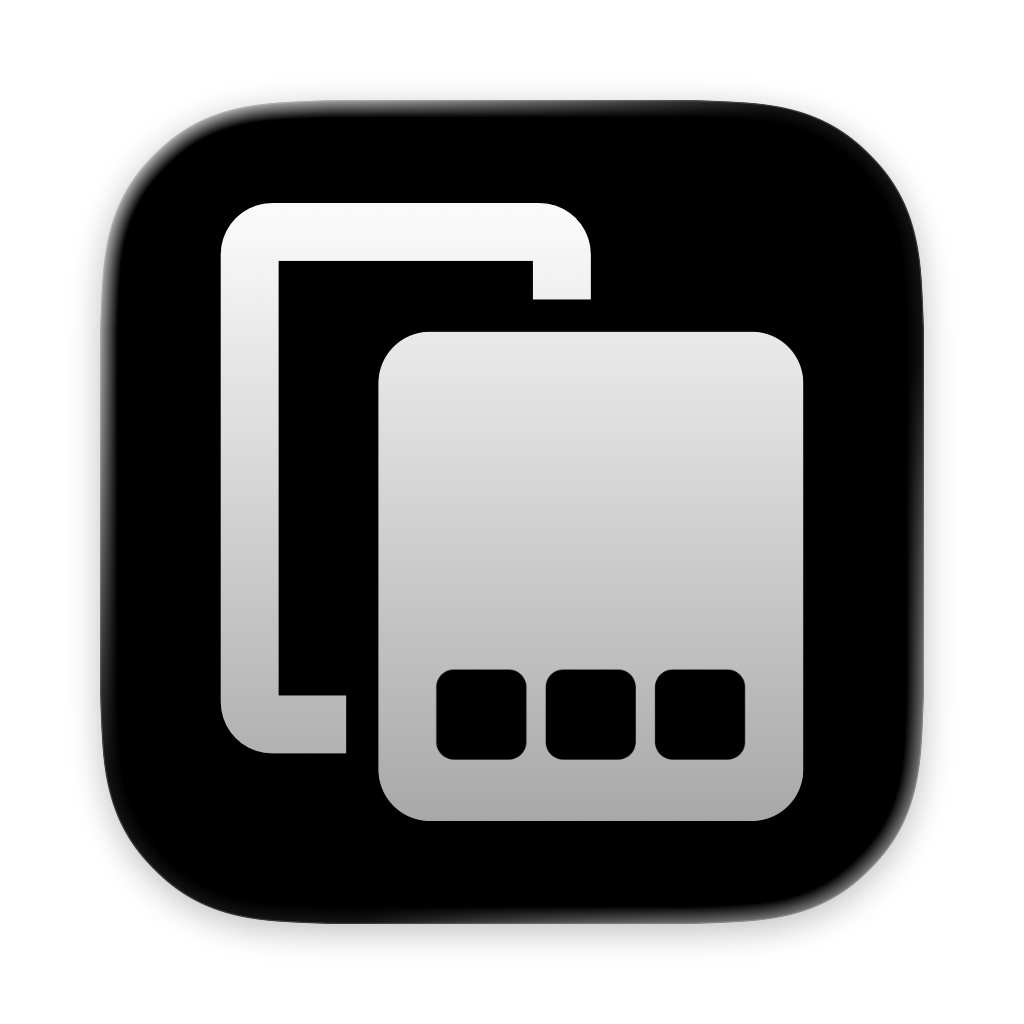
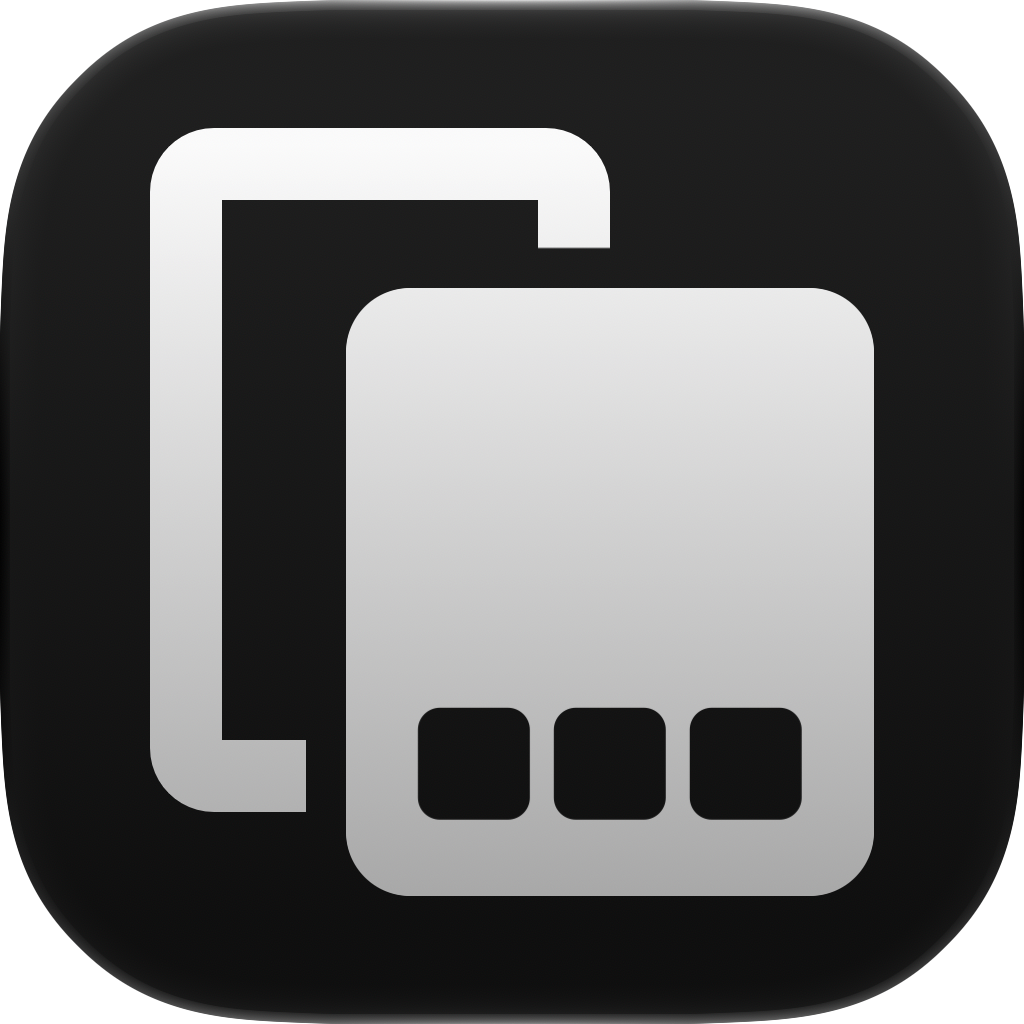
feat(clippu): in-app scenes, single-column app cards, new now section
Mail, Messages, Notes and Safari scenes from brand-assets-kit; Command Shift V order; full-bleed Clippu icon.

diff --git a/assets/css/12-cards.css b/assets/css/12-cards.css
@@ -1,7 +1,7 @@
 @layer components {
   .cards {
     display: grid;
-    grid-template-columns: repeat(auto-fit, minmax(min(100%, 18rem), 1fr));
+    grid-template-columns: 1fr;
     gap: var(--space-m);
     padding: 0;
     list-style: none;

diff --git a/content/apps/clippu/_index.md b/content/apps/clippu/_index.md
@@ -9,7 +9,7 @@ description = "Clippu keeps the text, links, images and files you copy, and past
 keywords = ["macOS", "clipboard", "clipboard manager", "clipboard history", "paste", "productivity", "swift"]
 icon = "images/icon_1024x1024.png"
 hero = "images/website-hero_2400x1350.webp"
-heroAlt = "The Clippu clipboard bar along the bottom of the screen, with text, colour, code, image and file cards"
+heroAlt = "Writing an email in Mail with the Clippu bar open below it and a link card ready to paste"
 requirement = "In development. Requires macOS 26 or later"
 links = [
   { name = "Coming soon" },
@@ -28,10 +28,10 @@ Press the shortcut and your history opens along the bottom of the screen.
 
 Find an item, press Return, and Clippu pastes it into the app you were using.
 '''
-label = "Keyboard shortcut: Shift Command V"
+label = "Keyboard shortcut: Command Shift V"
 keys = [
-  { glyph = "⇧", name = "shift" },
   { glyph = "⌘", name = "command" },
+  { glyph = "⇧", name = "shift" },
   { glyph = "V" },
 ]
 
@@ -44,17 +44,19 @@ body = """
 - **Images** show a preview.
 - **Files and folders** show their Finder icon and name.
 - **Links** show the title the app copied with them. Clippu never loads the page.
+
+Image, file and code cards show their file type or language in the corner.
 """
 
-image = "images/website-kinds_1440x1080.webp"
-alt = "A colour swatch, highlighted code and an image, each on its own card"
+image = "images/website-paste-messages_1440x1080.webp"
+alt = "A Messages conversation with the Clippu bar open and a photo card ready to paste"
 [[features]]
 title = "Search Everything"
 summary = "Start typing to search every item, including the text inside images."
 body = "Text in images is recognised on your Mac, so a screenshot of an error message turns up when you search for it."
 
-image = "images/website-search_1440x1080.webp"
-alt = "A search for report finding a PDF, an email snippet and a folder"
+image = "images/website-paste-browser_1440x1080.webp"
+alt = "A support form in Safari with the order number field selected and a search for order in the Clippu bar"
 [[features]]
 title = "Search Scopes"
 summary = "Narrow the search to one kind, one file type or one app."
@@ -76,12 +78,14 @@ summary = "Pick several cards and paste them in the order you picked them."
 body = """
 - [[⇧ ←]] [[⇧ →]] select a range
 - [[space]] add or remove any card
-- [[↩]] paste
-- [[⇧ ↩]] paste as plain text
+- [[↩]] paste them all
+- [[⇧ ↩]] paste them all as plain text
+
+Each selected card shows its number, so you see the order before you paste.
 """
 
-image = "images/website-paste-in-order_1440x1080.webp"
-alt = "Three selected cards with the paste as plain text hint under each"
+image = "images/website-paste-notes_1440x1080.webp"
+alt = "A note in Notes with three cards selected in the Clippu bar, numbered in the order they will paste"
 [[features]]
 title = "Undo Any Change"
 summary = "Delete, edit, rename, move or clear, then press [[⌘ Z]] to take it back."
@@ -105,7 +109,7 @@ summary = "Paste an item, delete an item or clear your history from your own sho
 [[shortcuts]]
 group = "Anywhere"
 keys = [
-  { keys = "⇧ ⌘ V", action = "Open the clipboard bar. Change it in Settings." },
+  { keys = "⌘ ⇧ V", action = "Open the clipboard bar. Change it in Settings." },
 ]
 
 [[shortcuts]]
@@ -124,7 +128,7 @@ keys = [
   { keys = "↩", action = "Paste the selection" },
   { keys = "⇧ ↩", action = "Paste as plain text" },
   { keys = "⌘ ⌫", action = "Delete the selection" },
-  { keys = "⌥ ⌘ ← ⌥ ⌘ →", action = "Move the selection" },
+  { keys = "⌘ ⌥ ← ⌘ ⌥ →", action = "Move the selection" },
   { keys = "⌘ E", action = "Edit the text of a text or link card" },
   { keys = "⌘ Z", action = "Undo" },
   { keys = "⌘ /", action = "Show every keyboard shortcut" },

diff --git a/content/_index.md b/content/_index.md
@@ -14,8 +14,9 @@ url = "https://github.com/aleksgorbenko/howiwork"
 
 ## now
 
-- 🏗 Polishing my first macOS app - Bukku
-- 🔬 Researching the second app for macOS...
+- 🚀 Released my first macOS app - [Bukku](/apps/bukku/), instant search for browser tabs, bookmarks and history
+- 🏗 Building [Clippu](/apps/clippu/), a clipboard manager for macOS
+- 🔬 Researching Kioku, a learning tool
 - 💬 Learning Japanese with [WaniKani](https://www.wanikani.com), [BunPro](https://bunpro.jp) and ChatGPT
 - 💭 Open to opportunities with Japanese companies ([Fundamental Information Technology Engineer Examination](https://itpec.org/) certified, eligible for Japan work visa)
 
